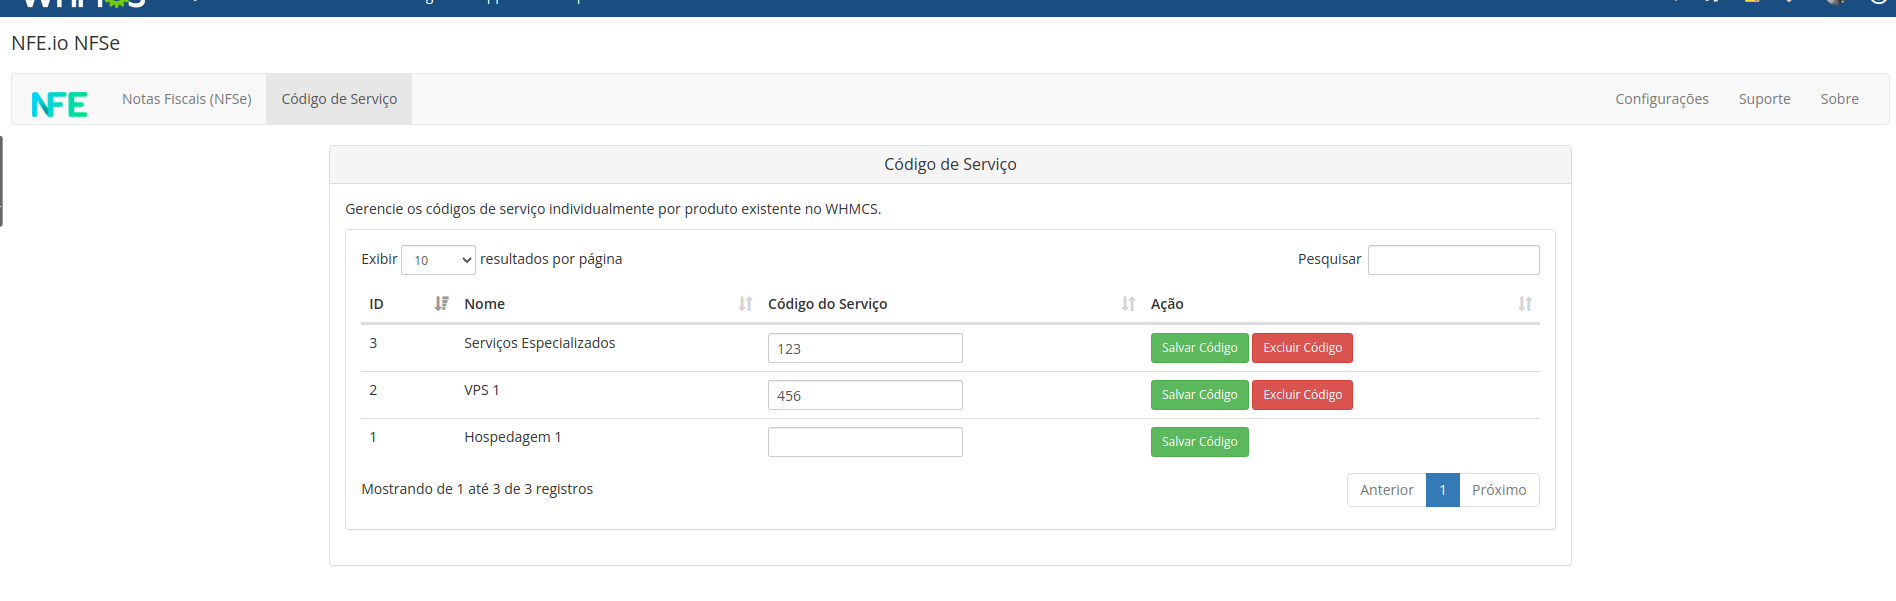
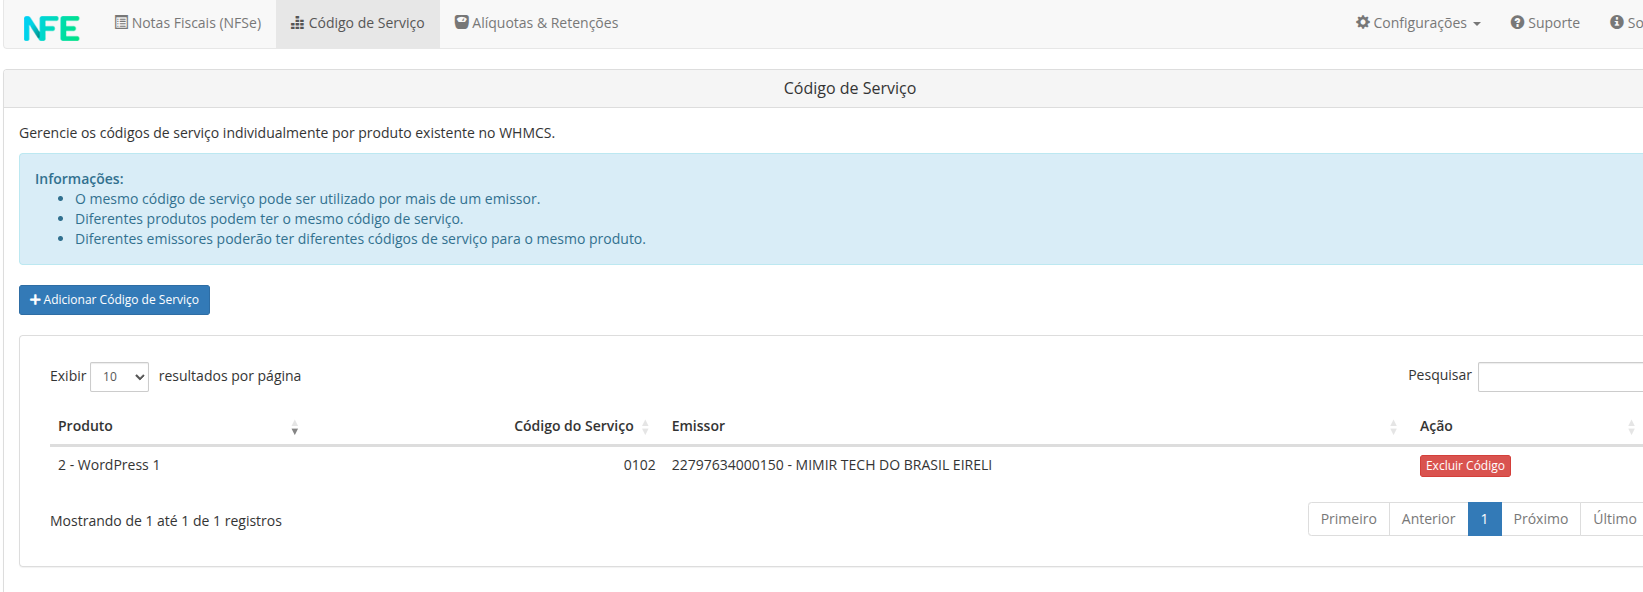
docs: update configuration and retention documentation; add new service codes and images

diff --git a/docs/configuracao.md b/docs/configuracao.md
@@ -43,6 +43,8 @@ Marque esta opção para definir a empresa como padrão. A empresa padrão será
 
 As configurações globais são aplicadas a todas as empresas cadastradas no módulo. As opções disponíveis estão descritas a seguir.
 
+![Configuracoes Globais](../assets/img/nfeio-whmcs-docs-configuracao-07.png)
+
 ### Deduzir descontos da fatura na NF
 
 Deduzir descontos/abatimentos existentes na fatura do valor total da nota a ser emitida. Quando uma fatura possuir um item de desconto ou item com valor negativo, o mesmo será deduzido do valor total da nota a ser emitida. Se uma fatura possuir vários itens de desconto para diferentes serviços, os descontos serão somados e descontados com base no grupo de código de serviço.
@@ -53,17 +55,9 @@ Deduzir descontos/abatimentos existentes na fatura do valor total da nota a ser 
 
 Configuração global para emissão das nots ficais pelo WHMCS, as opções disponíveis são.
 
-#### Quando a fatura é gerada
-
-A NFSe será emitida assim que uma fatura seja publicada, ou seja, esteja disponível para o cliente.
-
-#### Quando a fatura é paga
-
-A NFSe será emitida apenas quando a fatura registrar um pagamento. Esse pagamento poderá ser registrado por qualquer portal de pagamento dentro do fluxo transacional padrão do WHMCS ou manualmente ao adicionar um pagamento em uma fatura.
-
-### Agendar Emissão
-
-Número de dias após o pagamento da fatura que as notas devem ser emitidas. Informe quantos dias após o registro do pagamento em uma fatura a NFSe será emitida.
+1. **Quando a fatura é gerada**: A NFSe será emitida assim que uma fatura seja publicada, ou seja, esteja disponível para o cliente.
+2. **Quando a fatura é paga**: A NFSe será emitida apenas quando a fatura registrar um pagamento. Esse pagamento poderá ser registrado por qualquer portal de pagamento dentro do fluxo transacional padrão do WHMCS ou manualmente ao adicionar um pagamento em uma fatura.
+3. **Agendar Emissão**: Número de dias após o pagamento da fatura que as notas devem ser emitidas. Informe quantos dias após o registro do pagamento em uma fatura a NFSe será emitida.
 
 > **Atenção:** agendar emissão de notas desativa a configuração **Quando emitir NFE**.
 
@@ -87,17 +81,9 @@ Selecione o campo personalizado criado anteriormente que será responsável pelo
 
 Selecione a informação que será exibida no campo de descrição da nota fiscal.
 
-#### Número da fatura
-
-Exibe apenas o número da fatura vinculada a NFSe.
-
-#### Nome dos serviços
-
-Exibe o nome de todos os serviços vinculados a fatura.
-
-#### Número da fatura + Nome dos Serviços
-
-Exibe o número da fatura em uma linha e o nome de todos os serviços vinculados a fatura em outra linha.
+1. Número da fatura: Exibe apenas o número da fatura vinculada a NFSe.
+2. Nome dos serviços: Exibe o nome de todos os serviços vinculados a fatura.
+3. Número da fatura + Nome dos Serviços: Exibe o número da fatura em uma linha e o nome de todos os serviços vinculados a fatura em outra linha.
 
 ### Link da Fatura na NFSe
 
@@ -107,39 +93,12 @@ Inclui o link da fatura juntamente com a descrição da NFSe na mensagem da nota
 
 Habilita a opção de envio da nota fiscal por e-mail ao cliente.
 
-> O e-mail será enviado para o endereço principal cadastrado no perfil do cliente diretamente pela NFE.io.
+> O e-mail será enviado para o endereço principal cadastrado no perfil do cliente pela plataforma da NFE.io.
 
 ### Descrição Adicional
 
 Campo livre para informação adicional que será exibida no campo mensagem da nota fiscal.
 
-## Configurações dos Produtos/Serviços
-
-Os produtos podem ter configurações de código de serviço individuais. É possível definir os códigos de serviços personalizado por produto em `Addons -> NFE.io NFSe -> Código de Serviço`
-
-![](../assets/img/nfeio-whmcs-docs-configuracao-02.png)
-
-Para definir um código de serviço personalizado, localize o produto/serviço desejado e no campo `Código do Serviço` informe o código de serviço desejado, em seguida clique no botão `Salvar Código`.
-
-![](../assets/img/nfeio-whmcs-docs-configuracao-03.png)
-
-> **Dica:** para alterar um código basta alterar o desejado e clicar no botão `Salvar Código` referente.
-
-Para excluir um código personalizado de um produto, e voltar a utilizar a configuração global, localize o produto desejado e clique no botão `Excluir Código`.
-
-![](../assets/img/nfeio-whmcs-docs-configuracao-04.png)
-
-> **Dica:** use o campo `Pesquisar` localizado no canto superior da tabela para pesquisar os produtos desejados pelo nome ou ID.
-
-## Alíquotas & Retenções
-
-No menu **Alíquotas & Retenções** é possível definir alíquotas de retenção de ISS personalizadas para os diferentes códigos de serviços.
-
-![image](https://user-images.githubusercontent.com/5316107/162669588-9e43281f-9b90-417e-873c-cebf2060e67b.png)
-
-Caso existam códigos de serviços personalizados cadastrados, você poderá informar alíquotas diferentes para cada um, independente do valor definido na configuração global do módulo.
-
-Códigos de serviço com **alíquota com valor 0 (zero)** não sofrerão cálculo de retenção de ISS.
 
 ## Emissão Personalizada por cliente
 

diff --git a/docs/codigos-servicos.md b/docs/codigos-servicos.md
@@ -1,0 +1,29 @@
+---
+slug: codigos-servicos
+permalink: /docs/codigos-servicos/
+title: Códigos Personalizados
+layout: page
+---
+
+## Códigos Personalizados de Serviço
+
+Os produtos podem ter configurações de código de serviço individuais. É possível definir os códigos de serviços personalizado por produto em `Addons -> NFE.io NFSe -> Código de Serviço`
+
+![](../assets/img/nfeio-whmcs-docs-configuracao-02.png)
+
+Para definir um código de serviço personalizado, clique no botão **Adicionar Código de Serviço** e localize o produto/serviço desejado. Selecione a empresa emissora ao qual o código estará vinculado e no campo `Código do Serviço` informe o código de serviço desejado, em seguida clique no botão `Salvar Código`.
+
+![](../assets/img/nfeio-whmcs-docs-configuracao-03.png)
+
+Quando multiplos emissores estão configurados, um código de serviço pode ser informado para cada empresa emissora para o mesmo produto.
+
+### Editar Código de Serviço
+
+Para editar um código personalizado de um produto clique no botão **Adicionar Código de Serviço** e localize o produto/serviço desejado. Em seguida informe o novo código de serviço desejado e clique no botão `Salvar Código`.
+
+### Excluir Código de Serviço
+
+Para excluir um código personalizado de um produto localize o produto desejado na tabela e clique no botão `Excluir Código`.
+
+![](../assets/img/nfeio-whmcs-docs-configuracao-04.png)
+

diff --git a/docs/retencoes.md b/docs/retencoes.md
@@ -1,0 +1,16 @@
+---
+slug: retencoes
+permalink: /docs/retencoes/
+title: Alíquotas & Retenções
+layout: page
+---
+
+## Alíquotas & Retenções
+
+No menu **Alíquotas & Retenções** é possível definir alíquotas de retenção de ISS personalizadas para os diferentes códigos de serviços.
+
+![image](https://user-images.githubusercontent.com/5316107/162669588-9e43281f-9b90-417e-873c-cebf2060e67b.png)
+
+Caso existam códigos de serviços personalizados cadastrados, você poderá informar alíquotas diferentes para cada um, independente do valor definido na configuração global do módulo.
+
+Códigos de serviço com **alíquota com valor 0 (zero)** não sofrerão cálculo de retenção de ISS.
